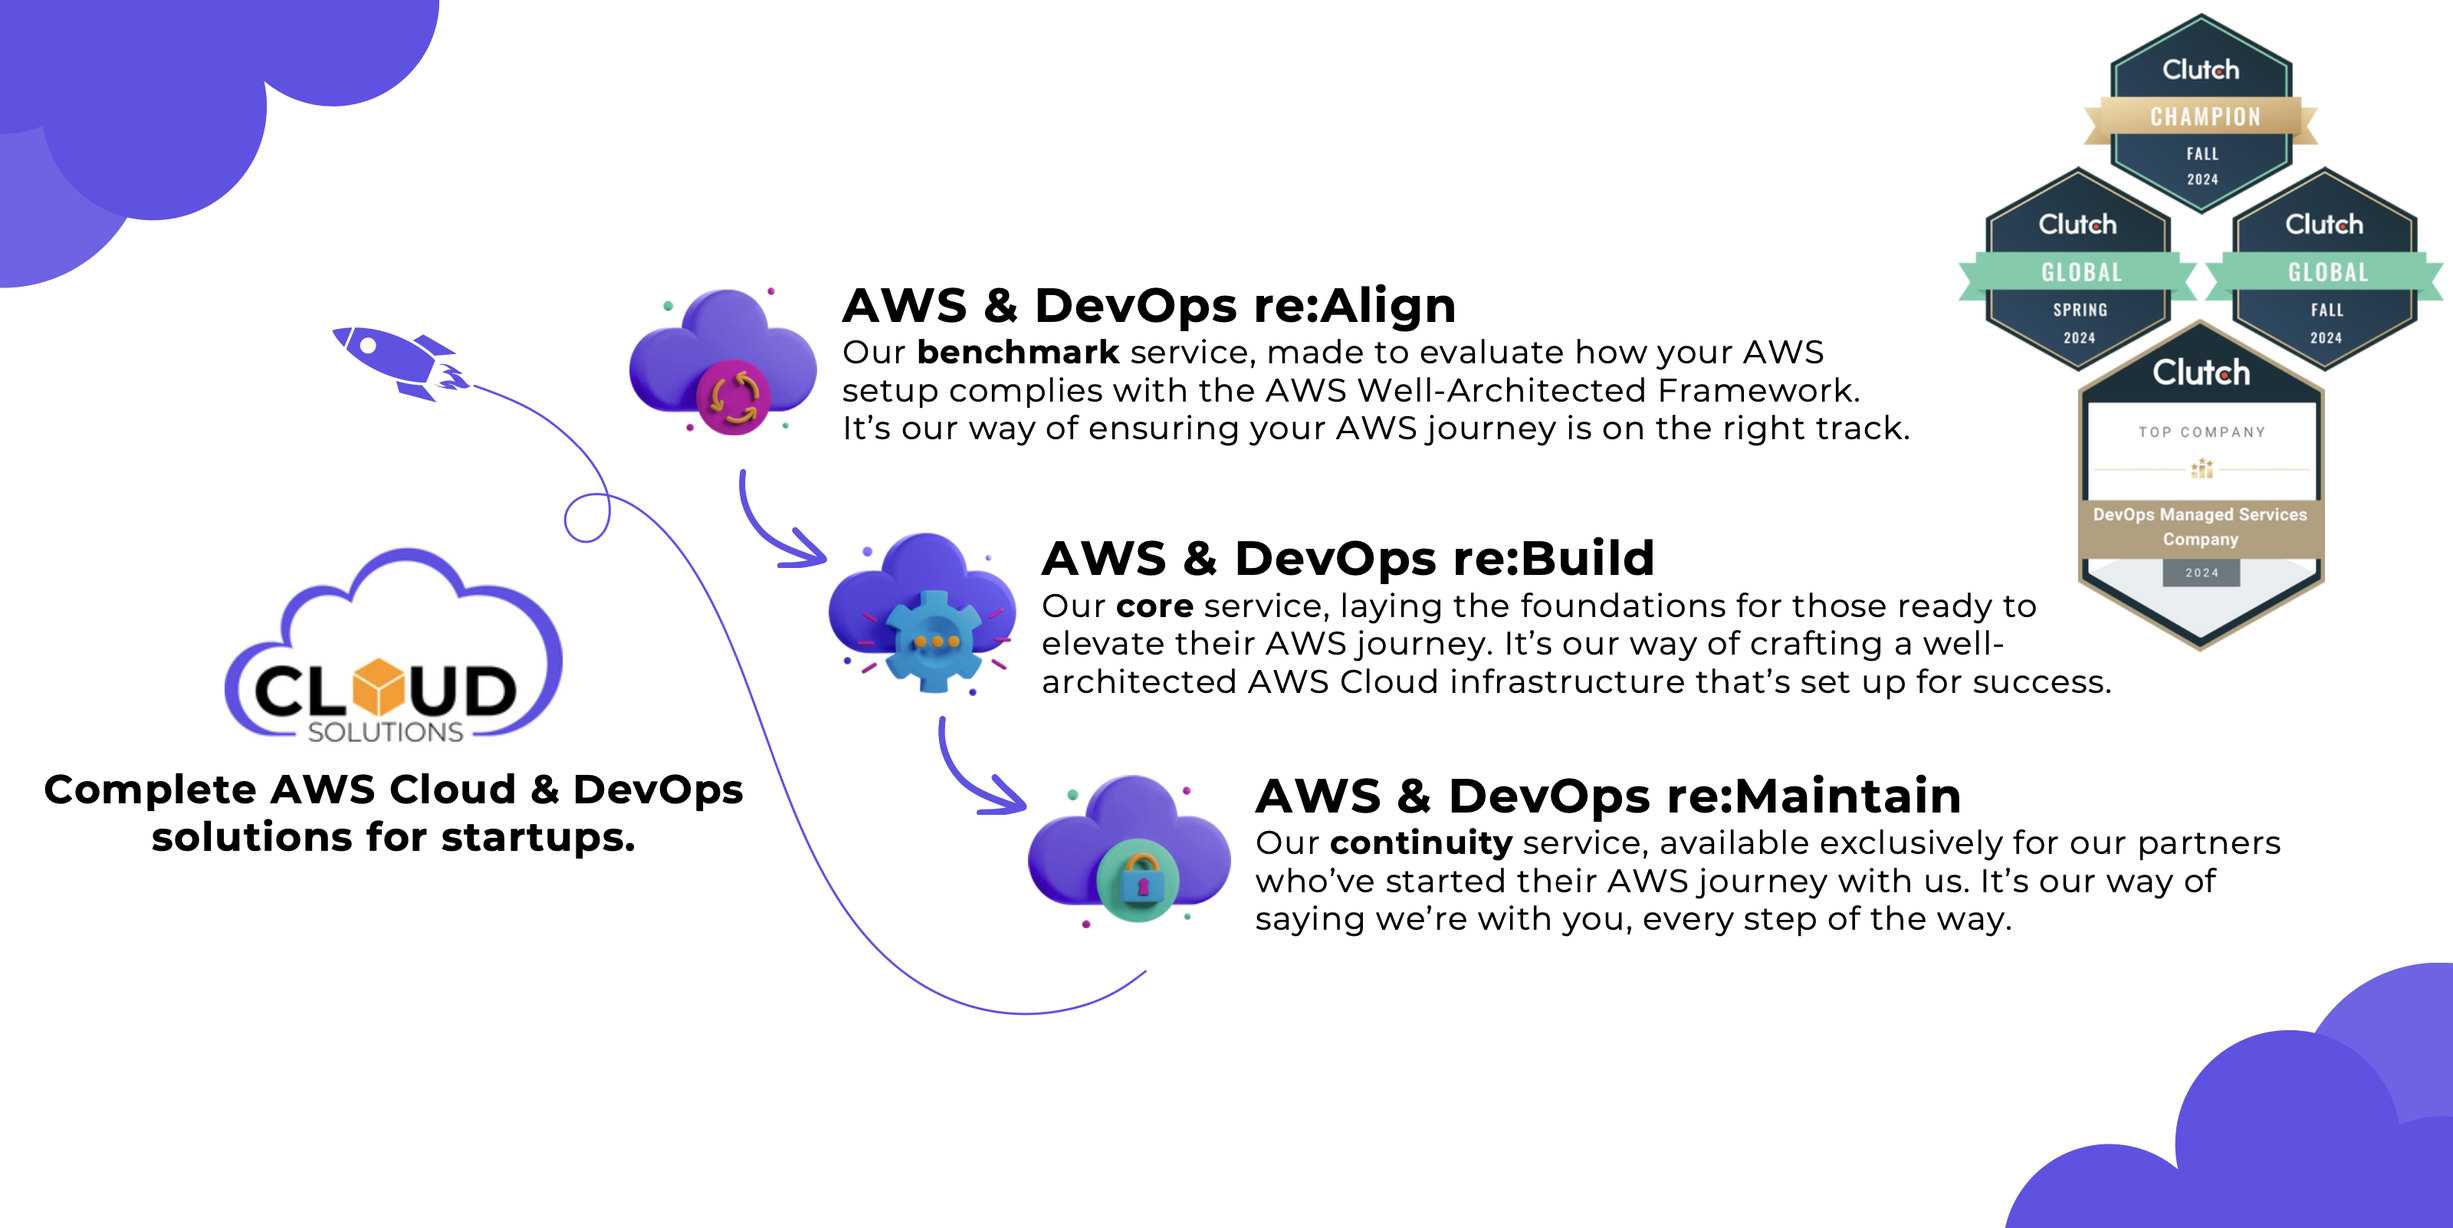
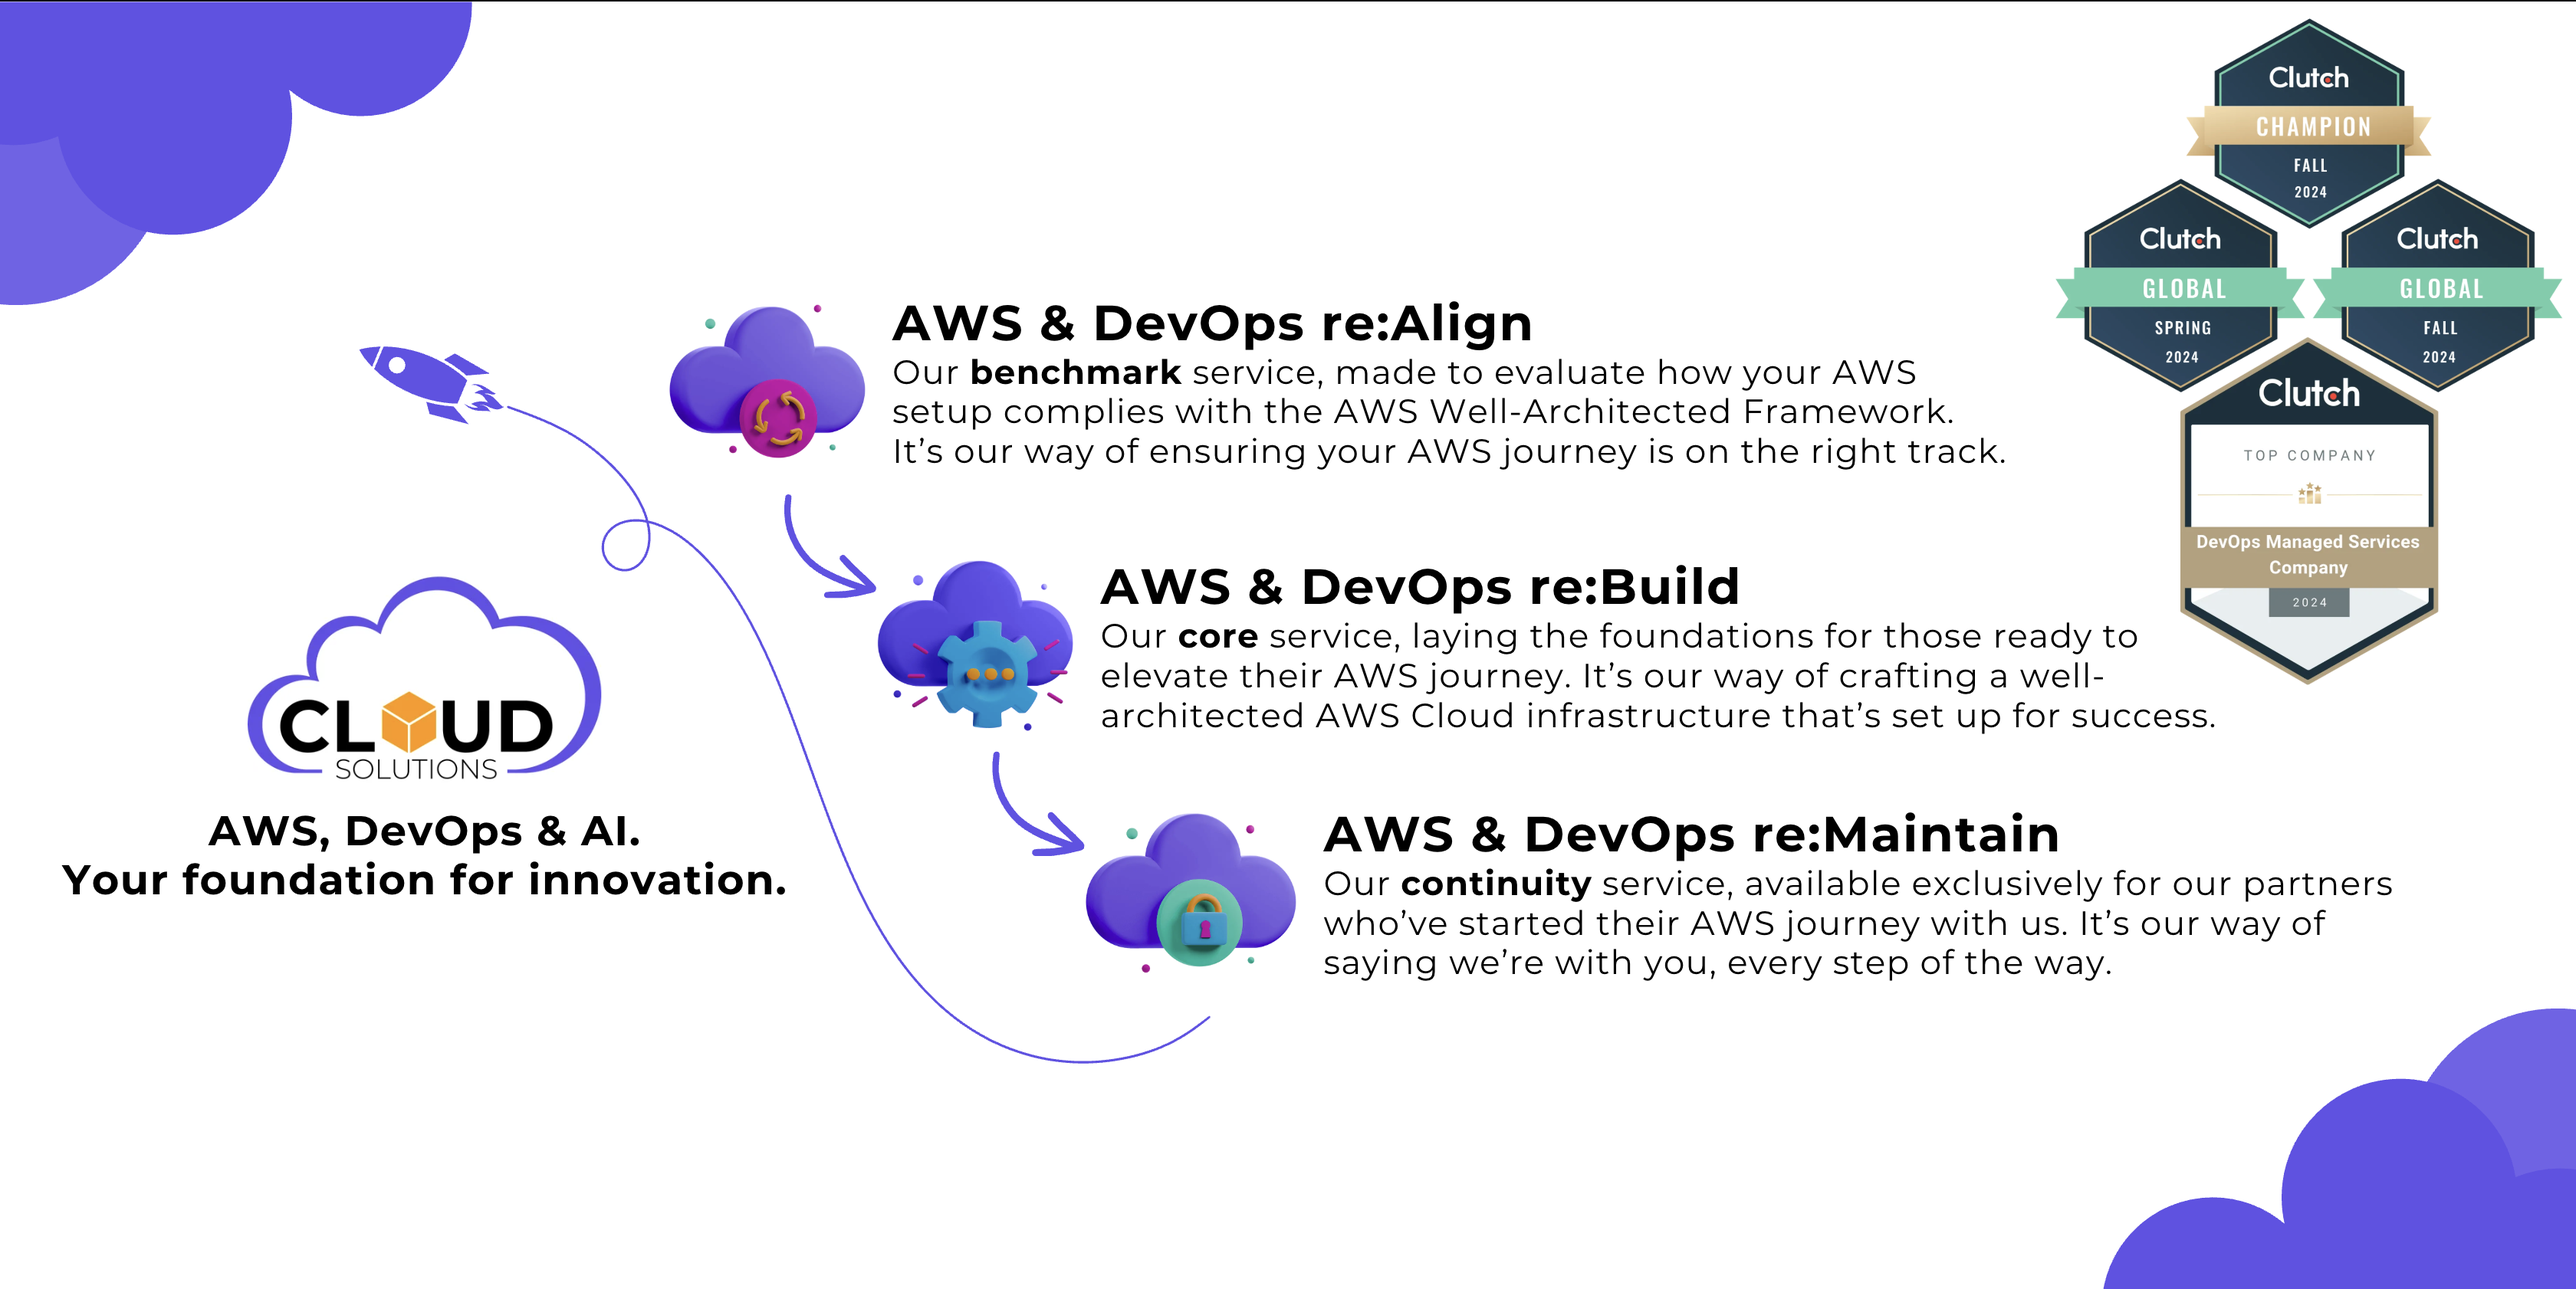
Fix regex pattern for auto-update branch detection (#31)

diff --git a/profile/README.md b/profile/README.md
@@ -4,9 +4,11 @@
 >
 > [!IMPORTANT]
 >
-> ### Cloud Solutions provides complete AWS Cloud & DevOps solutions for startups.
+> ### AWS, DevOps & AI. Your foundation for innovation
 >
-> We are a leading provider of AWS Cloud and DevOps consulting services, specializing in transforming businesses through customized technology solutions.
+> Cloud Solutions is a Europe-based AWS consulting partner focused on helping startups scale with AWS, DevOps and AI through secure cloud architecture, automation, modernization and ongoing consulting.
+>
+>We specialize in Terraform automation, CI/CD pipelines, multi-account AWS Cloud architectures, and alignment with the AWS Well-Architected Framework.
 >
 > Backed by years of experience and a team of industry experts, our approach is rooted in a commitment to innovation, quality, and client success.
 >
